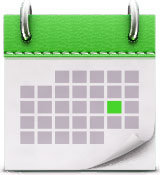
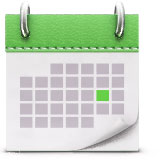
Updates to calendar

diff --git a/themes/fial_theme/edm/september-2014.html b/themes/fial_theme/edm/september-2014.html
@@ -17,7 +17,7 @@
          .image_fix {display:block;}
          img[class="header-chairman"]{}
          img[class="section-banner"]{}
-         img[class="image-left"]{padding-right:40px; padding-bottom: 10px;}
+         img[class="image-left"]{padding-bottom: 10px;}
          p {margin: 0px 0px !important;}
          table td {border-collapse: collapse;}
          table { border-collapse:collapse; mso-table-lspace:0pt; mso-table-rspace:0pt; }
@@ -49,7 +49,7 @@
          img[class="header-chairman"]{width:440px!important;height:142px!important;}
          img[class="header-md"]{margin-top:10px;width:440px!important;height:125px!important;}
          img[class="section-banner"]{width:440px!important;height:44px!important;}
-         img[class="image-left"]{padding-right:20px;width:140px!important;height:153px!important;}
+         img[class="image-left"]{width:120px!important;height:120px!important;}
          
          }
          /*IPHONE STYLES*/
@@ -810,7 +810,7 @@
                                           
                                           <tr>
                                              <td valign="top" style="font-family: Helvetica, arial, sans-serif; font-size: 13px; color: #666; text-align:left; line-height: 24px;">
-                                                <img width="120" border="0" alt="" border="0" style="display:block; border:none; outline:none; text-decoration:none;" class="image-left" src="http://mx8.inboxgateway.com/Uploads/3513/1410914381_calendar.jpg" alt="Calendar">
+                                                <img width="160" height="160" border="0" alt="" border="0" style="display:block; border:none; outline:none; text-decoration:none;" class="image-left" src="http://mx8.inboxgateway.com/Uploads/3513/1410927765_calendar.jpg" alt="Calendar">
                                              </td>
                                              <td style="font-family: 'Arial Narrow', Arial, sans-serif; font-size: 18px; font-weight:bold; text-transform: uppercase; color: #2f9227; text-align:left;line-height: 22px;">
                                                 Are you holding an event that is providing information, tools and connections of benefit to the food and beverage industry? 
